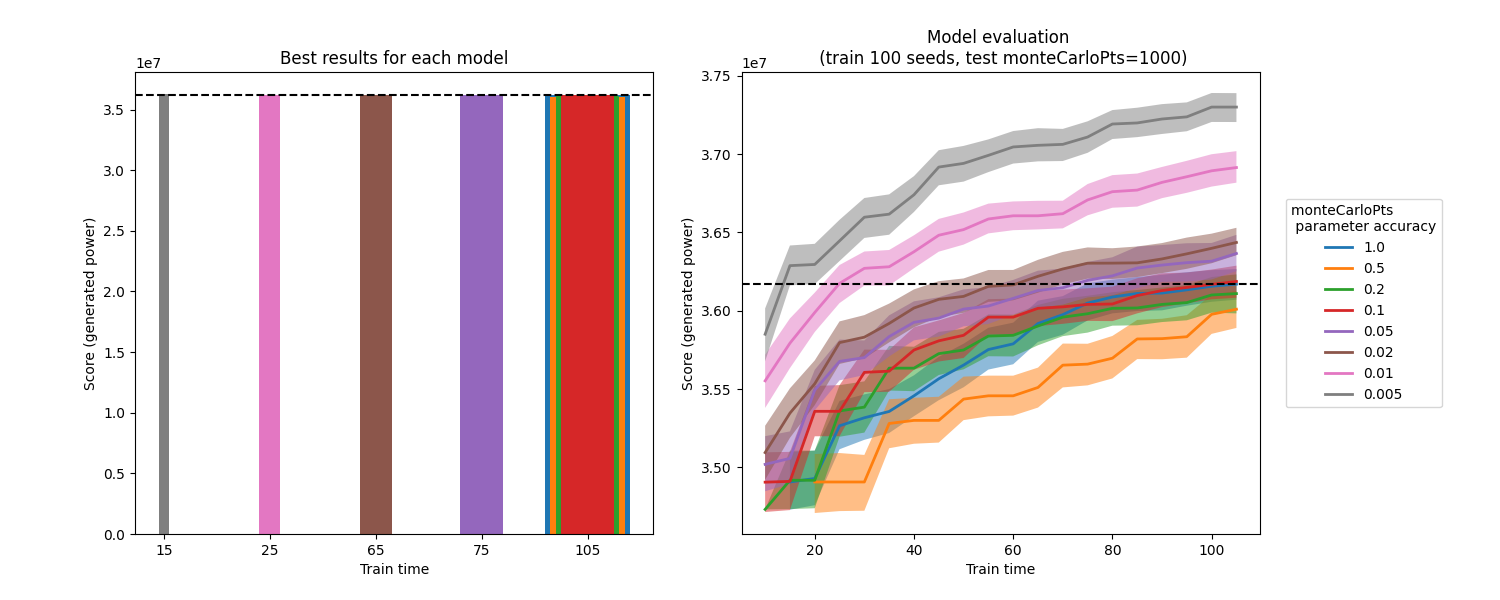
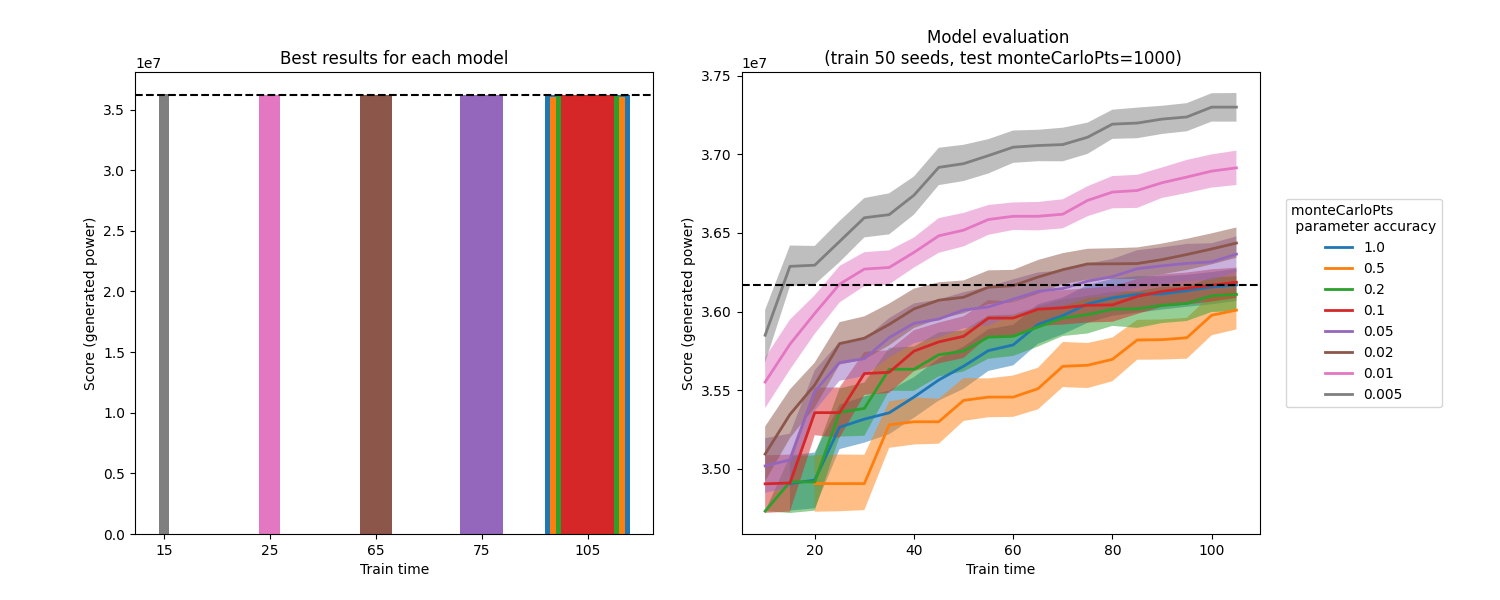
correct figure title

diff --git a/experimentScripts_WindFLO/OptimalAccuracyAnalysis_data.py b/experimentScripts_WindFLO/OptimalAccuracyAnalysis_data.py
@@ -1,0 +1,338 @@
+#==================================================================================================
+# LIBRERÍAS
+#==================================================================================================
+import os
+import sys
+import time
+
+import numpy as np
+import matplotlib.pyplot as plt
+from numpy import linalg
+import cma
+from tqdm import tqdm as tqdm
+import pandas as pd
+import multiprocessing as mp
+import scipy as sc
+import random
+from itertools import combinations
+import multiprocessing as mp
+
+
+sys.path.append('WindFLO/API')
+from WindFLO import WindFLO
+
+
+#==================================================================================================
+# CLASES
+#==================================================================================================
+class stopwatch:
+    
+    def __init__(self):
+        self.reset()
+        self.paused = False
+
+    def reset(self):
+        self.start_t = time.time()
+        self.pause_t=0
+
+    def pause(self):
+        self.pause_start = time.time()
+        self.paused=True
+
+    def resume(self):
+        if self.paused:
+            self.pause_t += time.time() - self.pause_start
+            self.paused = False
+
+    def get_time(self):
+        return time.time() - self.start_t - self.pause_t
+
+
+#==================================================================================================
+# FUNCIONES
+#==================================================================================================
+#--------------------------------------------------------------------------------------------------
+# Funciones auxiliares para definir el accuracy apropiado en cada momento del proceso.
+#--------------------------------------------------------------------------------------------------
+# Cálculo de la correlación de Spearman entre dos secuencias.
+def spearman_corr(x,y):
+    return sc.stats.spearmanr(x,y)[0]
+
+# Cálculo dela distancia Tau Kendall inversa normalizada entre dos secuencias.
+def inverse_normalized_tau_kendall(x,y):
+    # Número de pares con orden inverso.
+    pairs_reverse_order=0
+    for i in range(len(x)):
+        for j in range(i+1,len(x)):
+            case1 = x[i] < x[j] and y[i] > y[j]
+            case2 = x[i] > x[j] and y[i] < y[j]
+
+            if case1 or case2:
+                pairs_reverse_order+=1  
+    
+    # Número de pares total.
+    total_pairs=len(list(combinations(x,2)))
+
+    # Distancia tau Kendall normalizada.
+    tau_kendall=pairs_reverse_order/total_pairs
+
+    return 1-tau_kendall
+
+# Convertir vector de scores en vector de rankings.
+def from_scores_to_ranking(list_scores):
+    list_pos_ranking=np.argsort(np.array(list_scores))
+    ranking=[0]*len(list_pos_ranking)
+    i=0
+    for j in list_pos_ranking:
+        ranking[j]=i
+        i+=1
+    return ranking
+
+# Generar lista con los scores asociados a cada superficie que forma la generación.
+def generation_score_list(population,accuracy,count_time_acc=True,count_time_gen=False):
+
+    # Generar entorno con accuracy apropiado.
+    windFLO=get_windFLO_with_accuracy(momentary_folder=folder_name+'/',accuracy=accuracy)
+
+    # Evaluar población.
+    list_scores=[]
+    
+
+    for sol in population:
+        if count_time_acc and not count_time_gen:
+            sw_acc.resume()
+        if count_time_gen:
+            sw.resume()
+        score=EvaluateFarm(sol,windFLO)
+        if count_time_acc and not count_time_gen:
+            sw_acc.pause()
+        if count_time_gen:
+            sw.pause()
+        list_scores.append(score)
+
+    if count_time_gen:
+        return list_scores,windFLO
+    else:
+        return list_scores
+
+#--------------------------------------------------------------------------------------------------
+# Funciones asociadas al heurístico que se aplicará para ajustar el accuracy..
+#--------------------------------------------------------------------------------------------------
+# Implementación adaptada del método de bisección.
+def bisection_method(init_acc,population,train_seed,metric,threshold=0.95):
+
+    # Inicializar límite inferior y superior.
+    acc0=init_acc
+    acc1=1    
+
+    # Punto intermedio.
+    prev_m=init_acc
+    m=(acc0+acc1)/2
+    
+    # Función para calcular la correlación entre los rankings del 10% aleatorio/mejor de las superficies
+    # usando el accuracy actual y el máximo.
+    def similarity_between_current_best_acc(acc,population,train_seed,metric,first_iteration):
+
+        # Seleccionar de forma aleatoria el 10% de las superficies que forman la generación.
+        random.seed(train_seed)
+        ind_sol=random.sample(range(len(population)),int(len(population)*0.1))
+        list_solutions=list(np.array(population)[ind_sol])
+
+        # Guardar los scores asociados a cada solución seleccionada.
+        previous_time_acc=sw_acc.get_time()
+        best_scores=generation_score_list(list_solutions,1,count_time_acc=first_iteration)# Con el máximo accuracy. 
+        new_scores=generation_score_list(list_solutions,acc)# Accuracy nuevo. 
+        last_time_acc_increase=sw_acc.get_time()-previous_time_acc
+
+        # Obtener vectores de rankings asociados.
+        new_ranking=from_scores_to_ranking(new_scores)# Accuracy nuevo. 
+        best_ranking=from_scores_to_ranking(best_scores)# Máximo accuracy. 
+                
+        # Comparar ambos rankings.
+        if metric=='spearman':
+            metric_value=spearman_corr(new_ranking,best_ranking)
+        if metric=='taukendall':
+            metric_value=inverse_normalized_tau_kendall(new_ranking,best_ranking)
+
+        return metric_value,last_time_acc_increase
+
+    # Reajustar límites del intervalo hasta que este tenga un rango lo suficientemente pequeño.
+    first_iteration=True
+
+    while acc1-acc0>0.1:
+        metric_value,last_time_acc_increase=similarity_between_current_best_acc(m,population,train_seed,metric,first_iteration)
+        if metric_value>=threshold:
+            acc1=m
+        else:
+            acc0=m
+
+        prev_m=m
+        m=(acc0+acc1)/2
+        
+        first_iteration=False
+
+    return prev_m,last_time_acc_increase
+
+def execute_heuristic(gen,min_acc,previous_acc,population,train_seed,param):
+    global last_optimal_time
+    global sw
+    global sw_acc
+
+    if gen==0:
+        acc,time_best_acc=bisection_method(min_acc,population,train_seed,param)
+        last_optimal_time=sw.get_time()+sw_acc.get_time()
+
+    else:
+        if (sw.get_time()+sw_acc.get_time())-last_optimal_time>=max_time*0.1:
+            acc,time_best_acc=bisection_method(min_acc,population,train_seed,param)
+            last_optimal_time=sw.get_time()+sw_acc.get_time()
+        else:
+            acc=previous_acc
+            time_best_acc=0
+
+
+    return acc,time_best_acc
+
+#--------------------------------------------------------------------------------------------------
+# Funciones para el proceso de aprendizaje o búsqueda de la óptima distribución de molinos.
+#--------------------------------------------------------------------------------------------------
+
+# Función para inicializar las características del terreno y las turbinas sobre los cuales se aplicará la optimización.
+def get_windFLO_with_accuracy(momentary_folder='',accuracy=1):
+
+    # Configuración y parámetros de WindFLO.
+    windFLO = WindFLO(
+    inputFile = 'WindFLO/Examples/Example1/WindFLO.dat', # Archivo input para leer.
+    libDir = 'WindFLO/release/', # Ruta a la librería compartida libWindFLO.so.
+    turbineFile = 'WindFLO/Examples/Example1/V90-3MW.dat',# Parámetros de las turbinas.
+    terrainfile = 'WindFLO/Examples/Example1/terrain.dat', # Archivo del terreno.
+    runDir=momentary_folder,
+    nTurbines = 25, # Número de turbinas.
+
+    monteCarloPts = round(1000*accuracy)# Parámetro del cual se modificará su precisión.
+    )
+
+    # Cambiar el modelo de terreno predeterminado de RBF a IDW.
+    windFLO.terrainmodel = 'IDW'
+
+    return windFLO
+
+
+
+# Función para evaluar el desempeño del diseño del parque eólico.
+def EvaluateFarm(x, windFLO):
+    
+    k = 0
+    for i in range(0, windFLO.nTurbines):
+        for j in range(0, 2):
+            # unroll the variable vector 'x' and assign it to turbine positions
+            windFLO.turbines[i].position[j] = x[k]
+            k = k + 1
+
+    # Eliminar ficheros auxiliares.
+    windFLO.run(clean = True) 
+    windFLO.run(clean = True, inFile = 'WindFLO.res')
+    windFLO.run(clean = True, inFile = 'terrain.dat')
+
+    return -windFLO.farmPower
+
+
+# Función para aprender la solución.
+def learn(seed,heuristic_param,maxfeval=500,popsize=50): 
+
+    global folder_name
+    folder_name='File_'+str(heuristic_param)
+    os.makedirs(folder_name)
+
+
+    # Inicializar el terreno y las turbinas que se desean colocar sobre el mismo.
+    windFLO = get_windFLO_with_accuracy(momentary_folder=folder_name+'/')
+
+    # Accuracy mínimo.
+    min_acc=1/windFLO.montecarlopts
+    
+    # Función para transformar el valor escalado de los parámetros en los valores reales.
+    def transform_to_problem_dim(list_coord):
+        lbound = np.zeros(windFLO.nTurbines*2) # Límite inferior real.
+        ubound = np.ones(windFLO.nTurbines*2)*2000 # Límite superior real.
+        return lbound + list_coord*(ubound - lbound)
+
+    # Inicializar contador de tiempo.
+    global sw
+    sw = stopwatch()
+    sw.pause()
+
+    global sw_acc
+    sw_acc = stopwatch()
+    sw_acc.pause()
+
+    sw_acc_duplicate=0
+    n_gen=0
+    accuracy=None# Para la primera generación.
+
+    # Aplicar algoritmo CMA-ES para la búsqueda de la solución.
+    np.random.seed(seed)
+    es = cma.CMAEvolutionStrategy(np.random.random(windFLO.nTurbines*2), 0.33, inopts={'bounds': [0, 1],'seed':seed,'maxiter':1e9, 'maxfevals':maxfeval, 'popsize':popsize})
+    
+    while sw.get_time()<max_time:
+
+        # Construir generación.
+        solutions = es.ask()
+
+        # Transformar los valores escalados de los parámetros a los valores reales.
+        real_solutions=[transform_to_problem_dim(list_coord) for list_coord in solutions]
+
+        # Reajustar el accuracy según el heurístico seleccionado.
+        accuracy,time_best_acc_bisection=execute_heuristic(n_gen,min_acc,accuracy,real_solutions,seed,heuristic_param)
+        sw_acc_duplicate+=time_best_acc_bisection
+
+        # Lista de scores asociados a la generación.
+        list_scores,windFLO=generation_score_list(real_solutions,accuracy,count_time_gen=True)
+
+        # Para construir la siguiente generación.
+        es.tell(solutions, list_scores)
+
+        # Acumular datos de interés.
+        score = EvaluateFarm(transform_to_problem_dim(es.result.xbest),windFLO)
+        df.append([accuracy,seed,n_gen,-score,sw.get_time(),sw_acc.get_time()-sw_acc_duplicate,sw.get_time()+sw_acc.get_time()-sw_acc_duplicate])
+
+        n_gen+=1
+
+    os.rmdir(folder_name)
+
+
+
+#==================================================================================================
+# PROGRAMA PRINCIPAL
+#==================================================================================================
+
+# Lista de semillas de entrenamiento.
+list_seeds=range(1,51,1)
+
+# Lista de parámetros del heurístico.
+list_param=['spearman','taukendall']
+
+# Máximo tiempo de ejecución.
+max_time=np.load('results/data/WindFLO/ConstantAccuracyAnalysis/max_time.npy')
+
+# Función para realizar la ejecución en paralelo.
+def parallel_processing(arg):
+    global df
+    df=[]
+
+    for seed in tqdm(list_seeds):
+        learn(seed,arg)
+    
+    df=pd.DataFrame(df,columns=['accuracy','seed','n_gen','score','elapsed_time_proc','elapsed_time_acc','total_elapsed_time'])
+    df.to_csv('results/data/WindFLO/OptimalAccuracyAnalysis/df_OptimalAccuracyAnalysis_'+str(arg)+'.csv')
+
+
+
+# Ejecución en paralelo para el resto de accuracys.
+pool=mp.Pool(mp.cpu_count())
+pool.map(parallel_processing,list_param)
+pool.close()
+
+
+# Eliminar ficheros auxiliares.
+os.remove(os.path.sep.join(sys.path[0].split(os.path.sep)[:-1])+'/terrain.dat')
